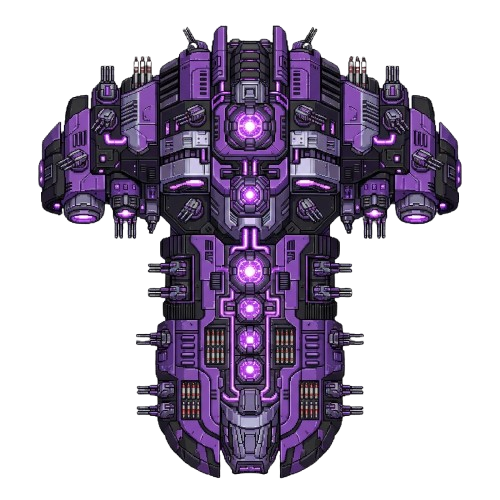
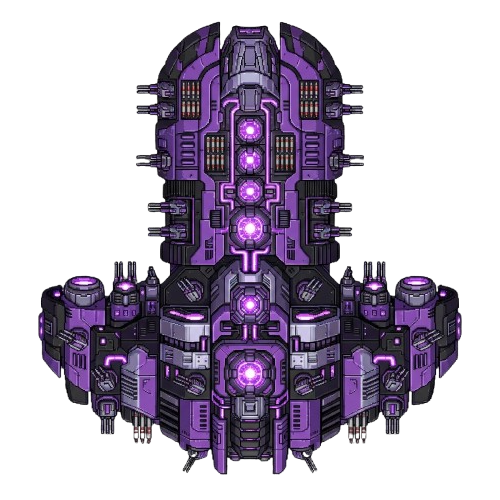
Fix game freeze after boss defeat and rotate boss image
- Remove early return statement that stopped game loop after boss defeat
- Rotate boss image 180 degrees
- Update cache version

diff --git a/sw.js b/sw.js
@@ -1,4 +1,4 @@
-const CACHE_NAME = 'space-shooter-v5';
+const CACHE_NAME = 'space-shooter-v7';
 const ASSETS = [
     './',
     './index.html',

diff --git a/script.js b/script.js
@@ -1179,7 +1179,6 @@ function gameLoop() {
                     bossBullets = [];
                     currentGameState = 'playing_waves';
                     startEnemySpawn();
-                    return;
                 }
                 break;
             }